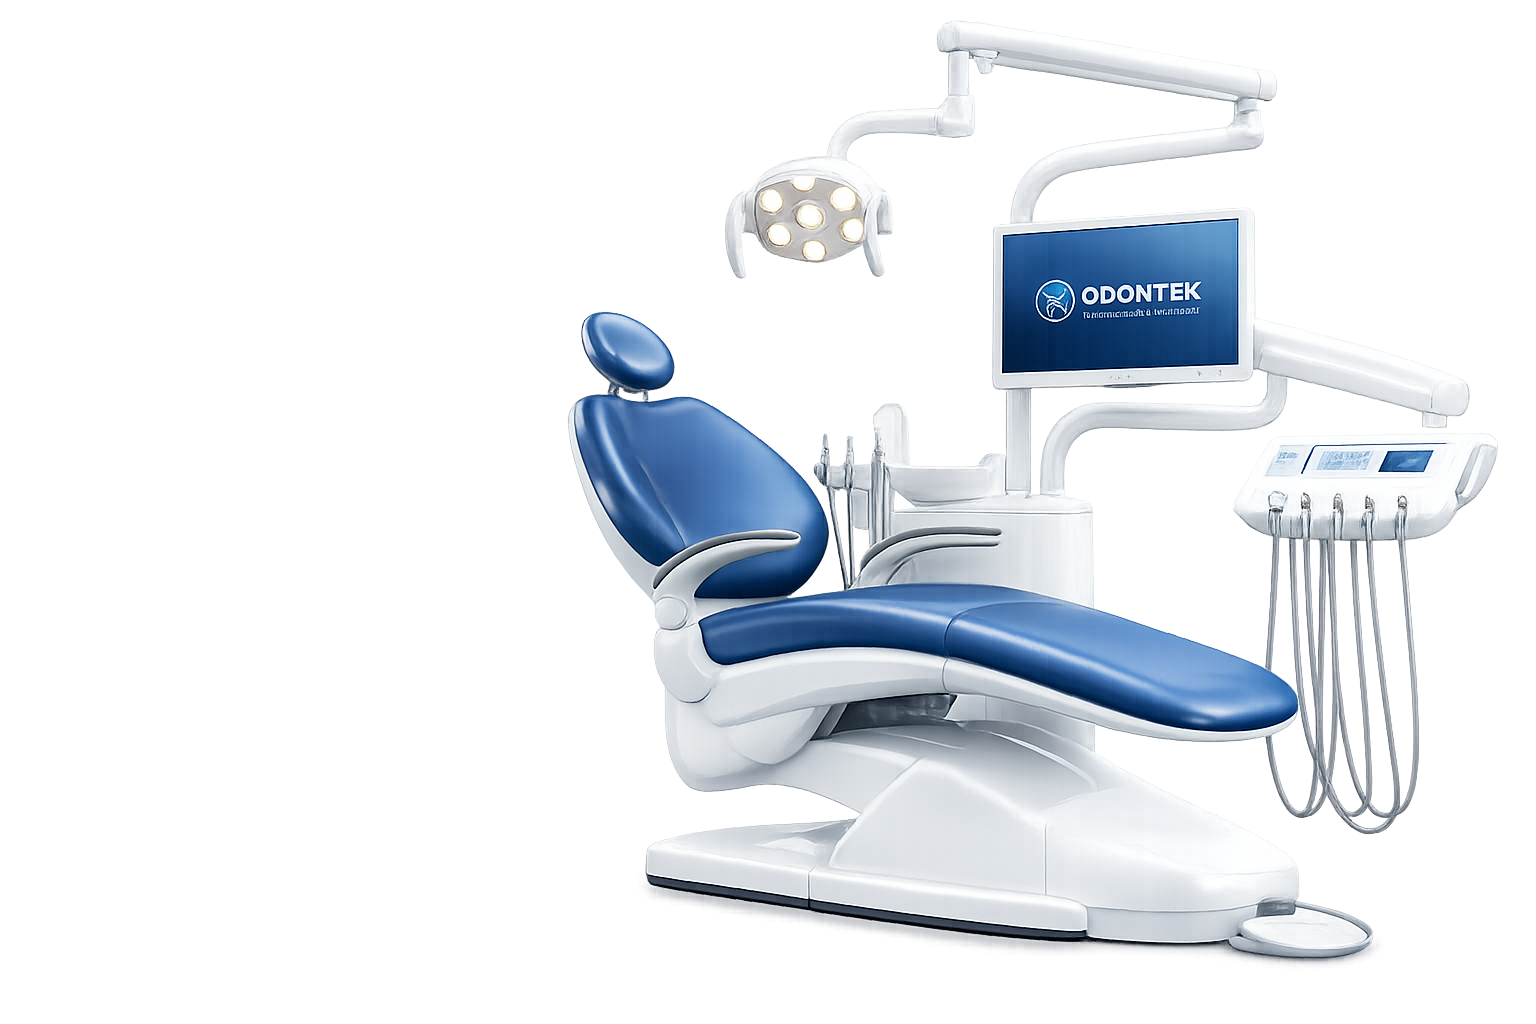
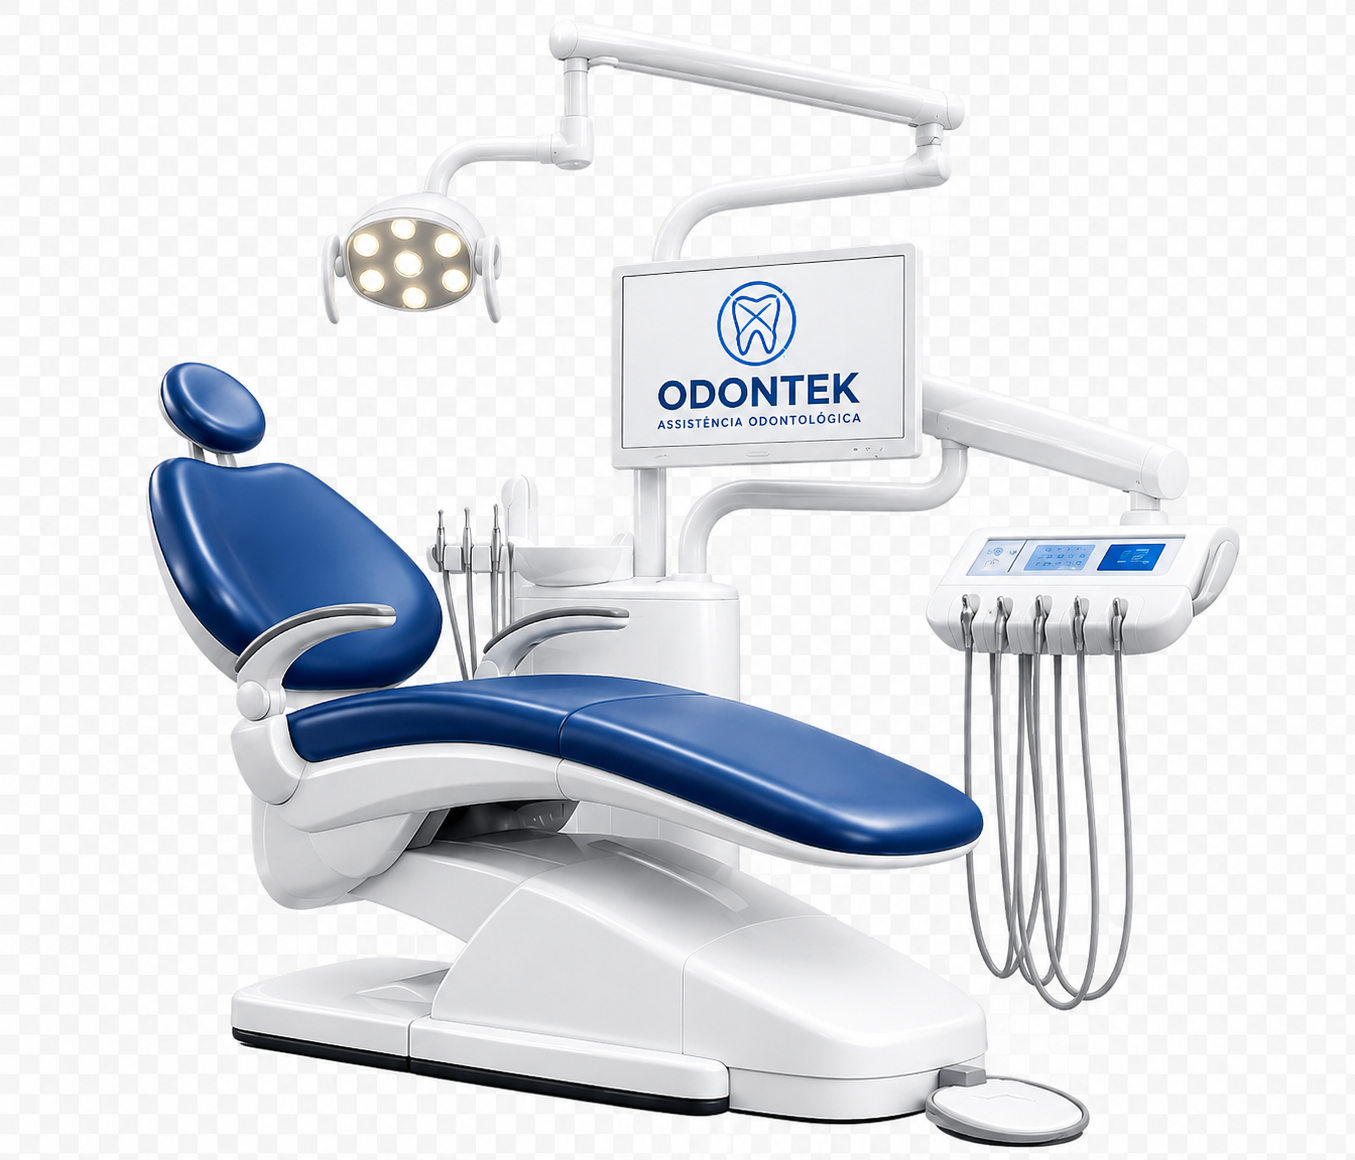
aa

diff --git a/frontend/src/styles/global.css b/frontend/src/styles/global.css
@@ -1137,3 +1137,30 @@ animation:floatChair 4s ease-in-out infinite;
 50%{transform:translateY(-10px)}
 100%{transform:translateY(0)}
 }
+
+.hero-chair{
+position:relative;
+display:flex;
+justify-content:center;
+align-items:center;
+min-height:560px;
+}
+
+.hero-chair-img{
+width:120%;
+max-width:860px;
+object-fit:contain;
+filter:drop-shadow(0 34px 60px rgba(0,0,0,.18));
+}
+
+.hero-chair-logo{
+position:absolute;
+width:92px;
+height:92px;
+object-fit:contain;
+top:205px;
+right:250px;
+border-radius:50%;
+background:#fff;
+padding:4px;
+}
